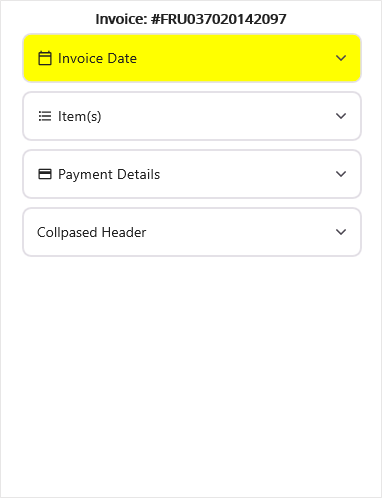
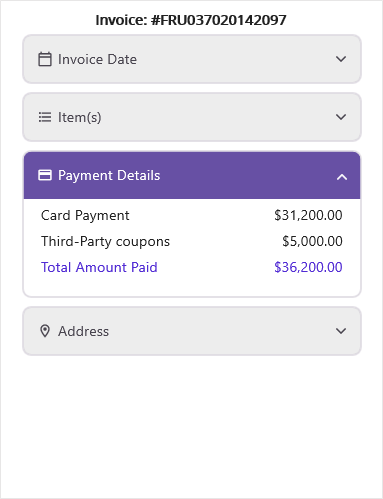
UG DOCUMENTATION 831668 -UG Documentation Review correction Done

diff --git a/MAUI/Expander/Appearance.md b/MAUI/Expander/Appearance.md
@@ -9,20 +9,22 @@ documentation: ug
 
 # Appearance in .NET MAUI Expander (SfExpander)
 
-The Expander allows to customize appearance of the Icon, and provides various functionalities to the users.
+The Expander allows to customize the appearance of the Icon and provides various functionalities to the users.
 
 ## Header icon position 
 
-The `SfExpander` allows you to customize the position of the header icon by using the `HeaderIconPosition` property. By default, the header icon position is `Start`. 
+The `SfExpander` allows you to customize the position of the header icon by using the `HeaderIconPosition` property. By default, the header icon position is `End`. 
 
 {% tabs %}
 {% highlight xaml %}
-    <syncfusion:SfExpander x:Name="expander" HeaderIconPosition="End" />       
+    <syncfusion:SfExpander x:Name="expander" HeaderIconPosition="Start" />
 {% endhighlight %}
 {% highlight c# %}
-    expander.HeaderIconPosition = Syncfusion.Maui.Expander.IconPosition.End;
+    expander.HeaderIconPosition = Syncfusion.Maui.Expander.ExpanderIconPosition.Start;
 {% endhighlight %}
 {% endtabs %}
+
+![.Net MAUI Expander with HeaderIconPosition Start](Images/maui-expander-with-headericonposition.png)
 
 ## Header background color customization
 
@@ -39,14 +41,14 @@ The `SfExpander` allows you to customize the background color of the expander he
 
 ## Icon color customization
 
-The `SfExpander` allows you to customize the color of the expander icon by using the `IconColor` property. By default, the icon color is `Black`.
+The `SfExpander` allows you to customize the color of the expander icon by using the `HeaderIconColor` property.
 
 {% tabs %}
 {% highlight xaml %}
-    <syncfusion:SfExpander x:Name="expander" IconColor="Brown"/>
+    <syncfusion:SfExpander x:Name="expander" HeaderIconColor="Brown"/>
 {% endhighlight %}
 {% highlight c# %}
-    expander.IconColor = Colors.Brown;
+    expander.HeaderIconColor = Colors.Brown;
 {% endhighlight %}
 {% endtabs %}
 
@@ -59,7 +61,7 @@ The appearance of the `SfExpander` can be customized using the following two `Vi
 
 {% tabs %}
 {% highlight xaml %}
-<syncfusion:SfExpander AnimationDuration="200" IsExpanded="True" >
+<syncfusion:SfExpander x:Name="expander1" IsExpanded="True" >
     <syncfusion:SfExpander.Header>
         <Grid >
             <Grid.RowDefinitions>
@@ -70,9 +72,10 @@ The appearance of the `SfExpander` can be customized using the following two `Vi
                 <ColumnDefinition Width="*"/>
             </Grid.ColumnDefinitions>
             <Label Text="&#xe703;" FontSize="16" Margin="14,2,2,2"
+                                    TextColor="{Binding Path=HeaderIconColor,Source={x:Reference expander1}}"
                                     FontFamily='{OnPlatform Android=AccordionFontIcons.ttf#,WinUI=AccordionFontIcons.ttf#AccordionFontIcons,MacCatalyst=AccordionFontIcons,iOS=AccordionFontIcons}'
                                     VerticalOptions="Center" VerticalTextAlignment="Center"/>
-            <Label CharacterSpacing="0.25" FontFamily="Roboto-Regular"  Text="Invoice Date" FontSize="14" Grid.Column="1" VerticalOptions="CenterAndExpand"/>
+            <Label CharacterSpacing="0.25" TextColor="{Binding Path=HeaderIconColor,Source={x:Reference expander1}}" FontFamily="Roboto-Regular"  Text="Invoice Date" FontSize="14" Grid.Column="1" VerticalOptions="CenterAndExpand"/>
             </Grid>
     </syncfusion:SfExpander.Header>
     <syncfusion:SfExpander.Content>
@@ -85,13 +88,15 @@ The appearance of the `SfExpander` can be customized using the following two `Vi
             <VisualStateGroup>
                 <VisualState Name="Expanded">
                     <VisualState.Setters>
-                        <Setter Property="HeaderBackground" Value="Red"/>
-                    </VisualState.Setters>
+                            <Setter Property="HeaderBackground" Value="#6750A4"/>
+                            <Setter Property="HeaderIconColor" Value="#FFFFFF"/>
+                        </VisualState.Setters>
                 </VisualState>
                 <VisualState Name="Collapsed">
                     <VisualState.Setters>
-                        <Setter Property="HeaderBackground" Value="Yellow"/>
-                    </VisualState.Setters>
+                            <Setter Property="HeaderBackground" Value="#141C1B1F"/>
+                            <Setter Property="HeaderIconColor" Value="#49454F"/>
+                        </VisualState.Setters>
                 </VisualState>
             </VisualStateGroup>
         </VisualStateGroupList>
@@ -101,21 +106,29 @@ The appearance of the `SfExpander` can be customized using the following two `Vi
 {% highlight c# %}
 SfExpander expander = new SfExpander();
 expander.IsExpanded = true;
-expander.AnimationDuration = 200;
 
 Grid headerGrid = new Grid();
 headerGrid.RowDefinitions.Add(new RowDefinition { Height = 48 });
 headerGrid.ColumnDefinitions.Add(new ColumnDefinition { Width = 35 });
 headerGrid.ColumnDefinitions.Add(new ColumnDefinition { Width = GridLength.Star });
-Label headerIconLabel = new Label { Text = "\ue703" ,Margin=new Thickness(14, 2, 2, 2), FontSize=16, VerticalOptions = LayoutOptions.Center, VerticalTextAlignment = TextAlignment.Center, FontFamily= DeviceInfo.Platform == DevicePlatform.WinUI ? "AccordionFontIcons.ttf#AccordionFontIcons" : DeviceInfo.Platform == DevicePlatform.Android ? "AccordionFontIcons.ttf#" : DeviceInfo.Platform == DevicePlatform.iOS ? "AccordionFontIcons": "AccordionFontIcons" };
-Label headerTextLabel = new Label { Text = "Invoice Date",CharacterSpacing=0.25, FontSize = 14, FontFamily = "Roboto-Regular", VerticalOptions = LayoutOptions.CenterAndExpand };
+Label headerIconLabel = new Label { Text = "\ue703", Margin = new Thickness(14, 2, 2, 2), FontSize = 16, VerticalOptions = LayoutOptions.Center, VerticalTextAlignment = TextAlignment.Center, FontFamily = DeviceInfo.Platform == DevicePlatform.WinUI ? "AccordionFontIcons.ttf#AccordionFontIcons" : DeviceInfo.Platform == DevicePlatform.Android ? "AccordionFontIcons.ttf#" : DeviceInfo.Platform == DevicePlatform.iOS ? "AccordionFontIcons" : "AccordionFontIcons" };
+headerIconLabel.Margin = new Thickness(14, 2, 2, 2);
+headerIconLabel.FontSize = 16;
+headerIconLabel.SetBinding(Label.TextColorProperty, new Binding("HeaderIconColor", source: expander));
+
+Label headerTextLabel = new Label { Text = "Invoice Date", CharacterSpacing = 0.25, FontSize = 14, FontFamily = "Roboto-Regular", VerticalOptions = LayoutOptions.CenterAndExpand };
 headerGrid.Children.Add(headerIconLabel);
 headerGrid.Children.Add(headerTextLabel);
 headerGrid.SetColumn(headerTextLabel, 1);
 expander.Header = headerGrid;
+headerTextLabel.SetBinding(Label.TextColorProperty, new Binding("HeaderIconColor", source: expander));
+headerTextLabel.CharacterSpacing = 0.25;
+headerTextLabel.FontSize = 14;
 
 Grid contentGrid = new Grid();
+contentGrid.Padding = new Thickness(18, 8, 0, 18);
 Label contentLabel = new Label { Text = "11:03 AM, 15 January 2019", FontSize = 14, FontFamily = "Roboto-Regular", VerticalOptions = LayoutOptions.CenterAndExpand };
+contentLabel.FontSize = 14;
 contentGrid.Children.Add(contentLabel);
 expander.Content = contentGrid;
 
@@ -126,13 +139,15 @@ VisualState expanded = new VisualState
 {
     Name = "Expanded"
 };
-expanded.Setters.Add(new Setter { Property = SfExpander.HeaderBackgroundProperty, Value = Colors.Red });
+expanded.Setters.Add(new Setter { Property = SfExpander.HeaderBackgroundProperty, Value = Color.FromHex("#6750A4") });
+expanded.Setters.Add(new Setter { Property = SfExpander.HeaderIconColorProperty, Value = Color.FromHex("#FFFFFF") });
 
 VisualState collapsed = new VisualState
 {
     Name = "Collapsed"
 };
-collapsed.Setters.Add(new Setter { Property = SfExpander.HeaderBackgroundProperty, Value = Colors.Yellow });
+collapsed.Setters.Add(new Setter { Property = SfExpander.HeaderBackgroundProperty, Value = Color.FromHex("#141C1B1F") });
+collapsed.Setters.Add(new Setter { Property = SfExpander.HeaderIconColorProperty, Value = Color.FromHex("#49454F") });
 
 commonStateGroup.States.Add(expanded);
 commonStateGroup.States.Add(collapsed);
@@ -143,7 +158,5 @@ this.Content = expander;
 {% endhighlight %}
 {% endtabs %}
 
-![.Net MAUI Expander in collapsed state with VSM](Images/maui-expander-with-collapsed-vsm.png)
-
-![.Net MAUI Expander in expanded state with VSM](Images/maui-expander-with-expanded-vsm.png)
+![.Net MAUI Expander with VSM](Images/maui-expander-with-vsm.png)
 

diff --git a/MAUI/Expander/Getting-Started.md b/MAUI/Expander/Getting-Started.md
@@ -9,12 +9,12 @@ documentation: ug
 
 # Getting Started with .NET MAUI Expander (SfExpander)
 
-The `.NET MAUI Expander` control provides a way to expand and collapse when tapping a header. This section provides a quick overview of working with the `SfExpander` for .NET MAUI. It covers the minimal features that you need to know to get started with the Expander.
+The `.NET MAUI Expander` control provides a way to expand and collapse when tapping a header. This section briefly overviews working with the `SfExpander` for .NET MAUI. It covers the minimal features that you need to know to get started with the Expander.
 
 ## Creating an application using the .NET MAUI Expander
 
  1. Create a new .NET MAUI application in Visual Studio.
- 2. Syncfusion .NET MAUI components are available on [nuget.org](https://www.nuget.org/). To add SfExpander to your project, open the NuGet package manager in Visual Studio, search for Syncfusion.Maui.Expander and install it.
+ 2. Syncfusion .NET MAUI components are available on [nuget.org](https://www.nuget.org/). To add SfExpander to your project, open the NuGet package manager in Visual Studio and search for Syncfusion.Maui.Expander and install it.
  3. Import the control namespace `Syncfusion.Maui.Expander` in XAML or C# code.
  4. Initialize the `SfExpander` control.
  
@@ -81,11 +81,11 @@ namespace GettingStarted
 
 ### Defining expander 
 
-The `SfExpander` is a layout control comprise of Header and Content. You can load any View in `Header` and `Content`. Content visibility of expander can be set by using the `IsExpanded` property of `Expander`. Users can expand or collapse the Content view by tapping Header.
+The `SfExpander` is a layout control comprised of the Header and Content. You can load any View in `Header` and `Content`. Content visibility of expander can be set by using the `IsExpanded` property of `Expander`. Users can expand or collapse the Content view by tapping the Header.
 
-Here, Grid with Labels are loaded in Header and Content of expander. 
+Here, the Grid with Labels is loaded in the Header and Content of the expander. 
 
-N> When loading `Label` as direct children of `Header` or `Content` of Expander, then it will lead to exception. So, load `Label` inside `Grid` to overcome the crash.
+N> Loading the `Label` as direct children of the `Header` or `Content` of the Expander will lead to exception. So, load the `Label` inside the `Grid` to overcome the crash.
 
 {% tabs %}
 {% highlight xaml %}
@@ -279,7 +279,7 @@ The `SfExpander` allows you to customize the expanding and collapsing duration b
 
 ## Animation easing
 
-The `SfExpander` allows you to customize the rate of change of parameter over time or animation style by using the `AnimationEasing` property. By default, the animation easing is `Linear`. 
+The `SfExpander` allows you to customize the rate of change of parameters over time or animation style by using the `AnimationEasing` property. By default, the animation easing is `Linear`. 
 
 {% tabs %}
 {% highlight xaml %}
@@ -292,7 +292,7 @@ The `SfExpander` allows you to customize the rate of change of parameter over ti
 
 ## Expand and Collapse 
 
-The `SfExpander` allows you to programmatically expand and collapse by using the `IsExpanded` property of SfExpander. The user can control the expand and collapse interactions by handling the `Expanding` and `Collapsing` events.
+The `SfExpander` allows you to programmatically expand and collapse by using the `IsExpanded` property of the  SfExpander. The user can control the expand and collapse interactions by handling the `Expanding` and `Collapsing` events.
 
 {% tabs %}
 {% highlight xaml %}
